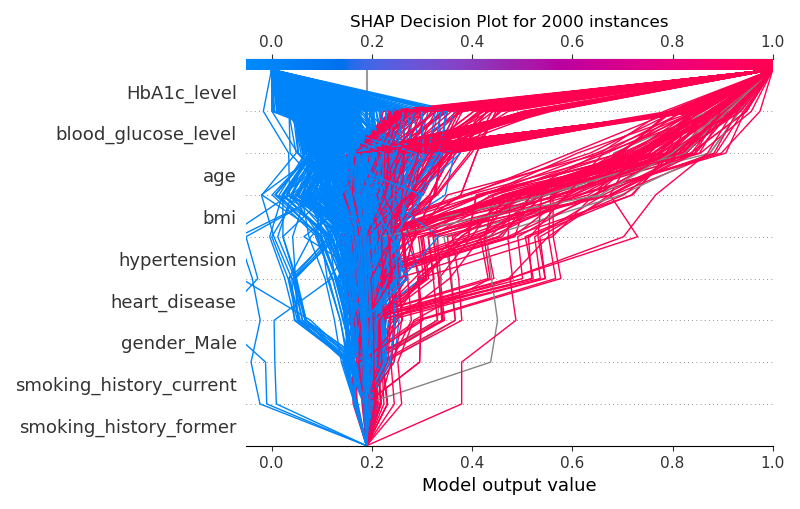
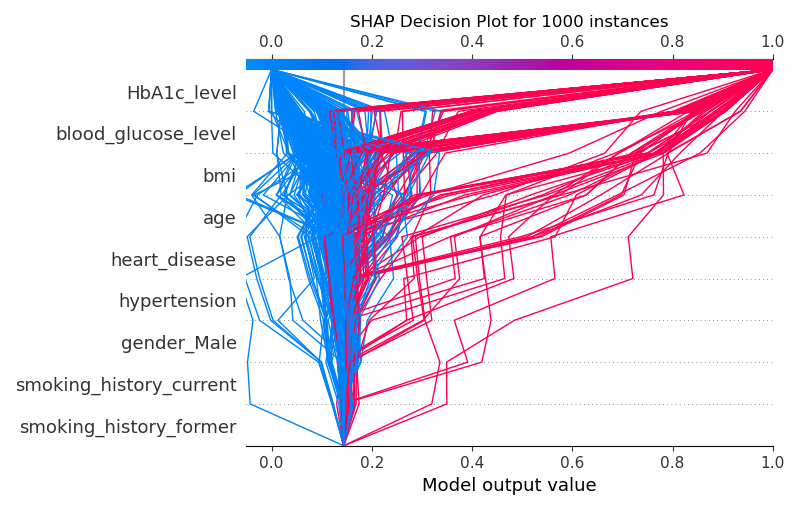
plots 1k instances, updated code: preprocessing, waterfall plot added, class imbalance

Changed region(s): [[0.125, 0.1473, 0.9688, 0.8841], [0.7188, 0.5599, 0.75, 0.5894], [0.6562, 0.0295, 0.6875, 0.0589]]

diff --git a/main.py b/main.py
@@ -22,37 +22,8 @@ warnings.filterwarnings('ignore')
 
 df = pd.read_csv('diabetes_prediction_dataset.csv')
 
-Q1 = df['bmi'].quantile(0.25)
-Q3 = df['bmi'].quantile(0.75)
-IQR = Q3 - Q1
-lower_whisker = df['bmi'].where(df['bmi'] >= Q1 - 1.5 * IQR).dropna().min()
-upper_whisker = df['bmi'].where(df['bmi'] <= Q3 + 1.5 * IQR).dropna().max()
-
-outliers = df[(df['bmi'] < lower_whisker) | (df['bmi'] > upper_whisker)]
-print(outliers['bmi'])
-
-# calculate the IQR
-Q1 = np.percentile(df['bmi'], 25)
-Q3 = np.percentile(df['bmi'], 75)
-IQR = Q3 - Q1
-
-# determine the upper and lower bounds for outliers
-lower_bound = Q1 - 1.5 * IQR
-upper_bound = Q3 + 1.5 * IQR
-
-# remove the outliers
-df = df[(df['bmi'] >= lower_bound) & (df['bmi'] <= upper_bound)]
-
-# plot the boxplot for BMI
-sns.boxplot(df['bmi'])
-plt.title('Box plot of BMI (without outliers)')
-plt.savefig('boxplot_XGBC.png')
-plt.show()
-
 df['gender'] = df['gender'].astype('category')
 df['smoking_history'] = df['smoking_history'].astype('category')
-df['hypertension'] = df['hypertension'].astype(bool)
-df['heart_disease'] = df['heart_disease'].astype(bool)
 df['diabetes'] = df['diabetes'].astype(bool)
 
 # drop duplicates
@@ -64,7 +35,8 @@ print(df.duplicated().any())
 X = df.drop('diabetes', axis=1)
 y = df.diabetes
 X = pd.get_dummies(X, columns=['smoking_history', 'gender'], drop_first=True)
-X = X.drop(['gender_Other', 'smoking_history_not current', 'smoking_history_never', 'smoking_history_ever'], axis=1)
+X = X.drop(['gender_Other', 'smoking_history_not current', 'smoking_history_never',
+            'smoking_history_ever'], axis=1)
 
 # Correlation Heatmap
 corr = pd.concat([X, y], axis=1).corr()
@@ -131,22 +103,23 @@ plt.savefig('confmatrix_XGBC.png')
 plt.show()
 
 # Compute SHAP values and plot summary
-samples = 2000
+samples = 1000
 X_shap = shap.sample(X_train, samples, random_state=random_state)
 mask = shap.maskers.Independent(X_train, max_samples=1000)
 explainer = shap.KernelExplainer(model.predict, X_shap, masker=mask)
 
 shap_values = explainer.shap_values(X_shap)
 
-explanation = shap.Explanation(shap_values, data=X_shap,
-                               feature_names=X_train.columns)
-
+explanation = shap.Explanation(shap_values,
+                               data=X_shap, feature_names=X_train.columns)
+# Beeswarm SHAP Plot
 shap.plots.beeswarm(explanation, show=False)
 plt.title(f'SHAP Beeswarm Plot for {samples} instances')
 plt.tight_layout()
 plt.savefig('beeswarm_SHAP.png')
 plt.show()
 
+# Decision plot SHAP
 shap.decision_plot(explainer.expected_value, shap_values,
                    feature_names=list(X_train.columns), xlim=(-0.05, 1), show=False)
 plt.title(f'SHAP Decision Plot for {samples} instances')
@@ -154,10 +127,25 @@ plt.tight_layout()
 plt.savefig('dec_SHAP.png')
 plt.show()
 
+# Mean Bar Plot SHAP
 shap.plots.bar(explanation, show=False)
 plt.title(f'SHAP Bar Plot for {samples} instances')
 plt.tight_layout()
 plt.savefig('bar_SHAP.png')
+plt.show()
+
+# Single Instance Waterfall plot
+# Compute SHAP values and plot summary
+instance_no = 39
+sv = explainer.shap_values(X_test.iloc[[instance_no]])   # pass the row of interest as df
+exp = shap.Explanation(sv, explainer.expected_value,
+                       data=X_test.iloc[[instance_no]].values,
+                       feature_names=X_shap.columns)
+
+shap.plots.waterfall(exp[0], show=False)
+plt.title(f'SHAP Waterfall Plot for instance {instance_no}')
+plt.tight_layout()
+plt.savefig('wf_SHAP.png')
 plt.show()
 
 # Calculate the elapsed time
